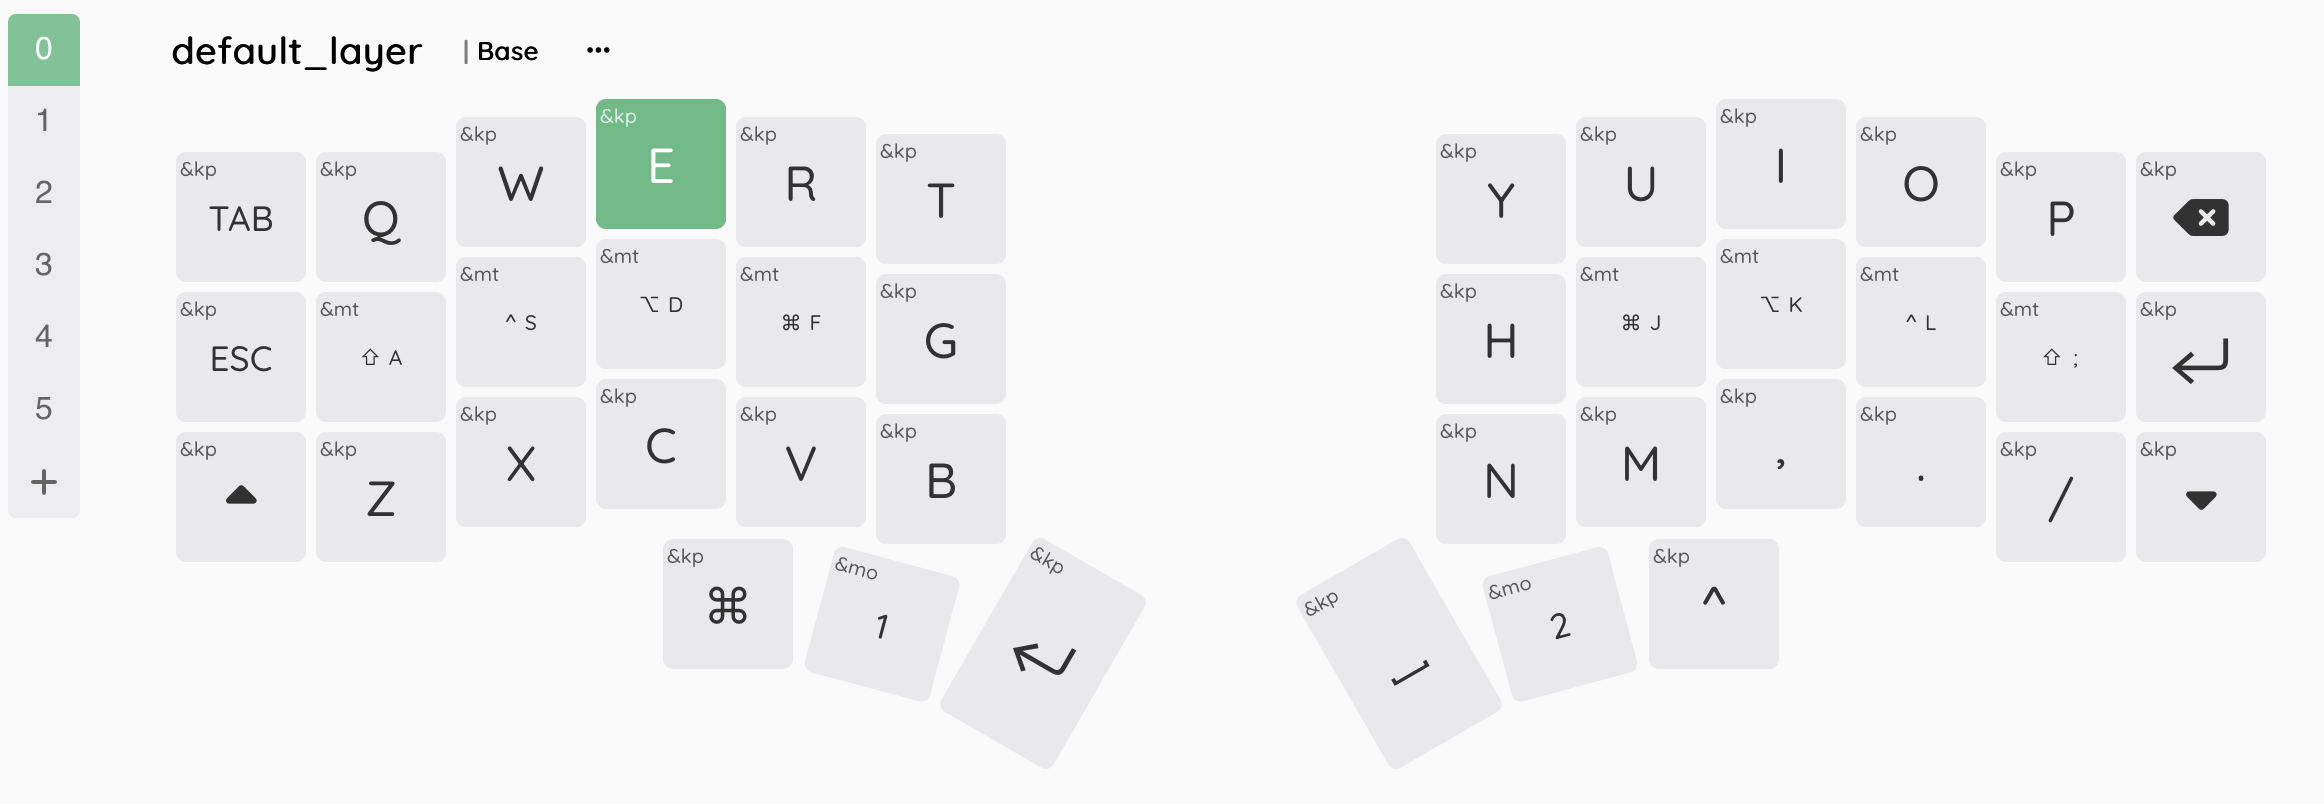
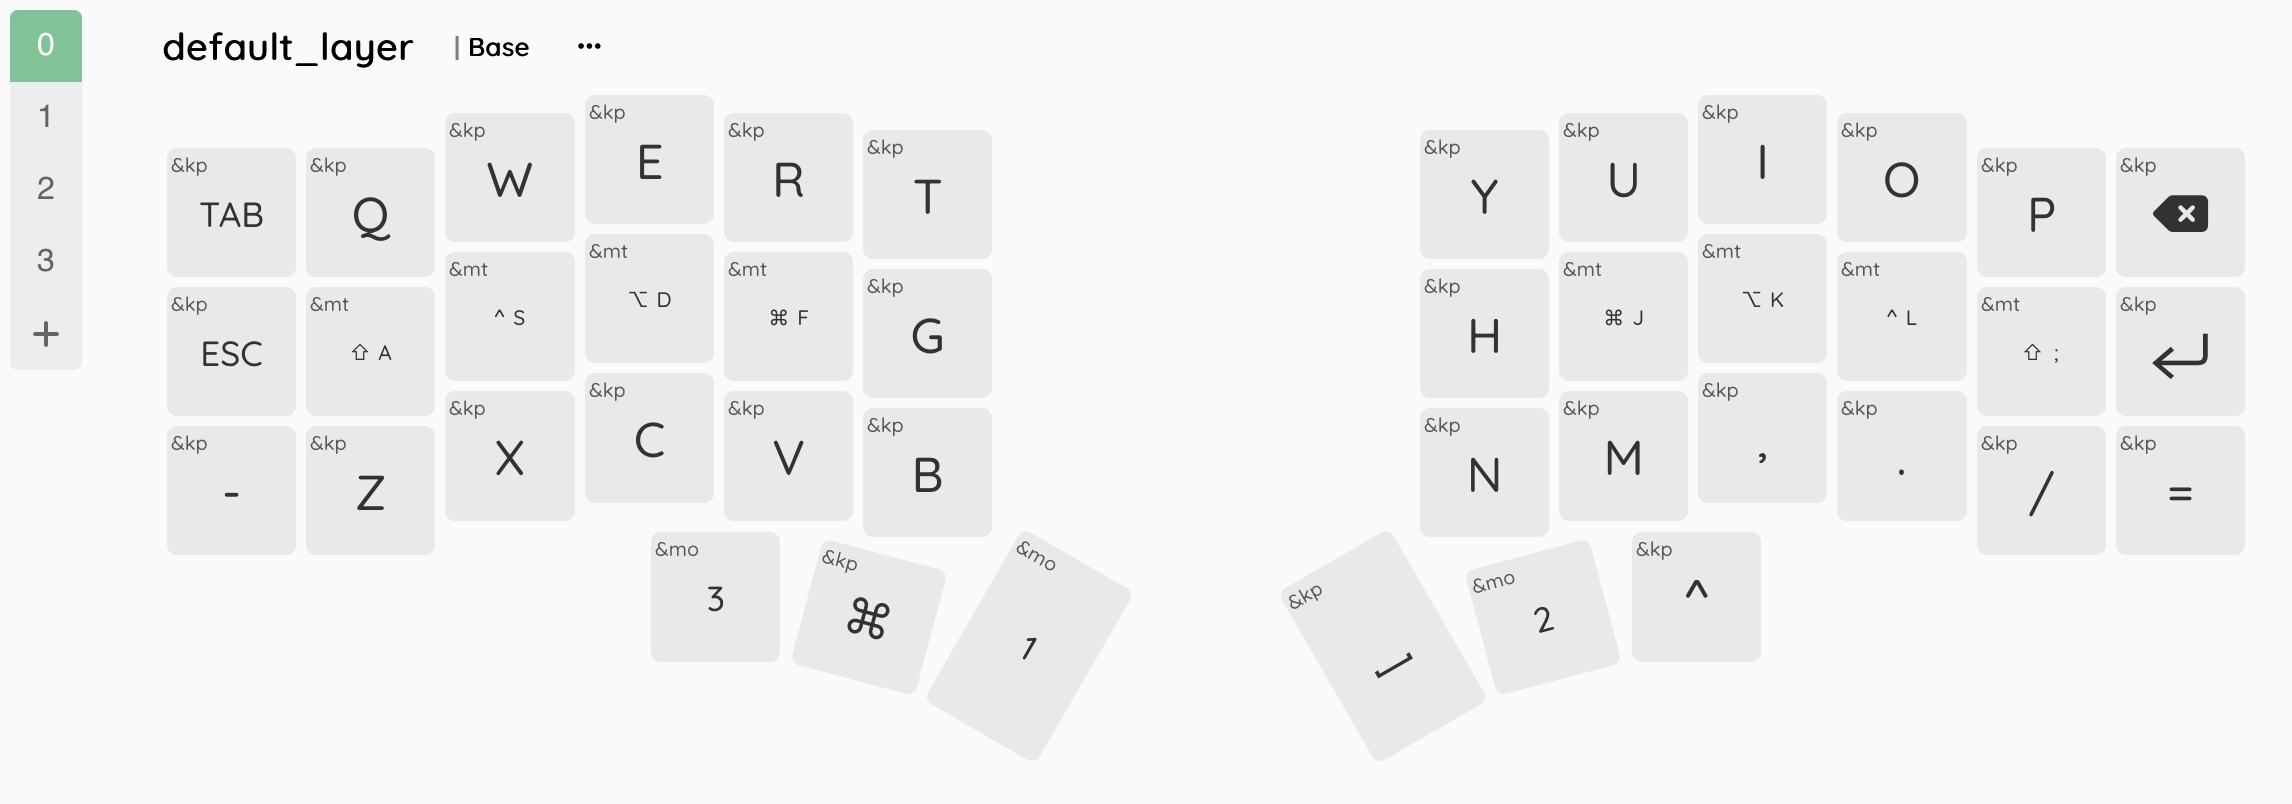
add new no mt layer for vim navigation ease

diff --git a/README.md b/README.md
@@ -13,3 +13,7 @@ ZMK configuration files for a corne keyboard.
 **raise**
 
 ![raise](./img/raise.png)
+
+**no mt**
+
+![No MT](./img/nomt.png)
